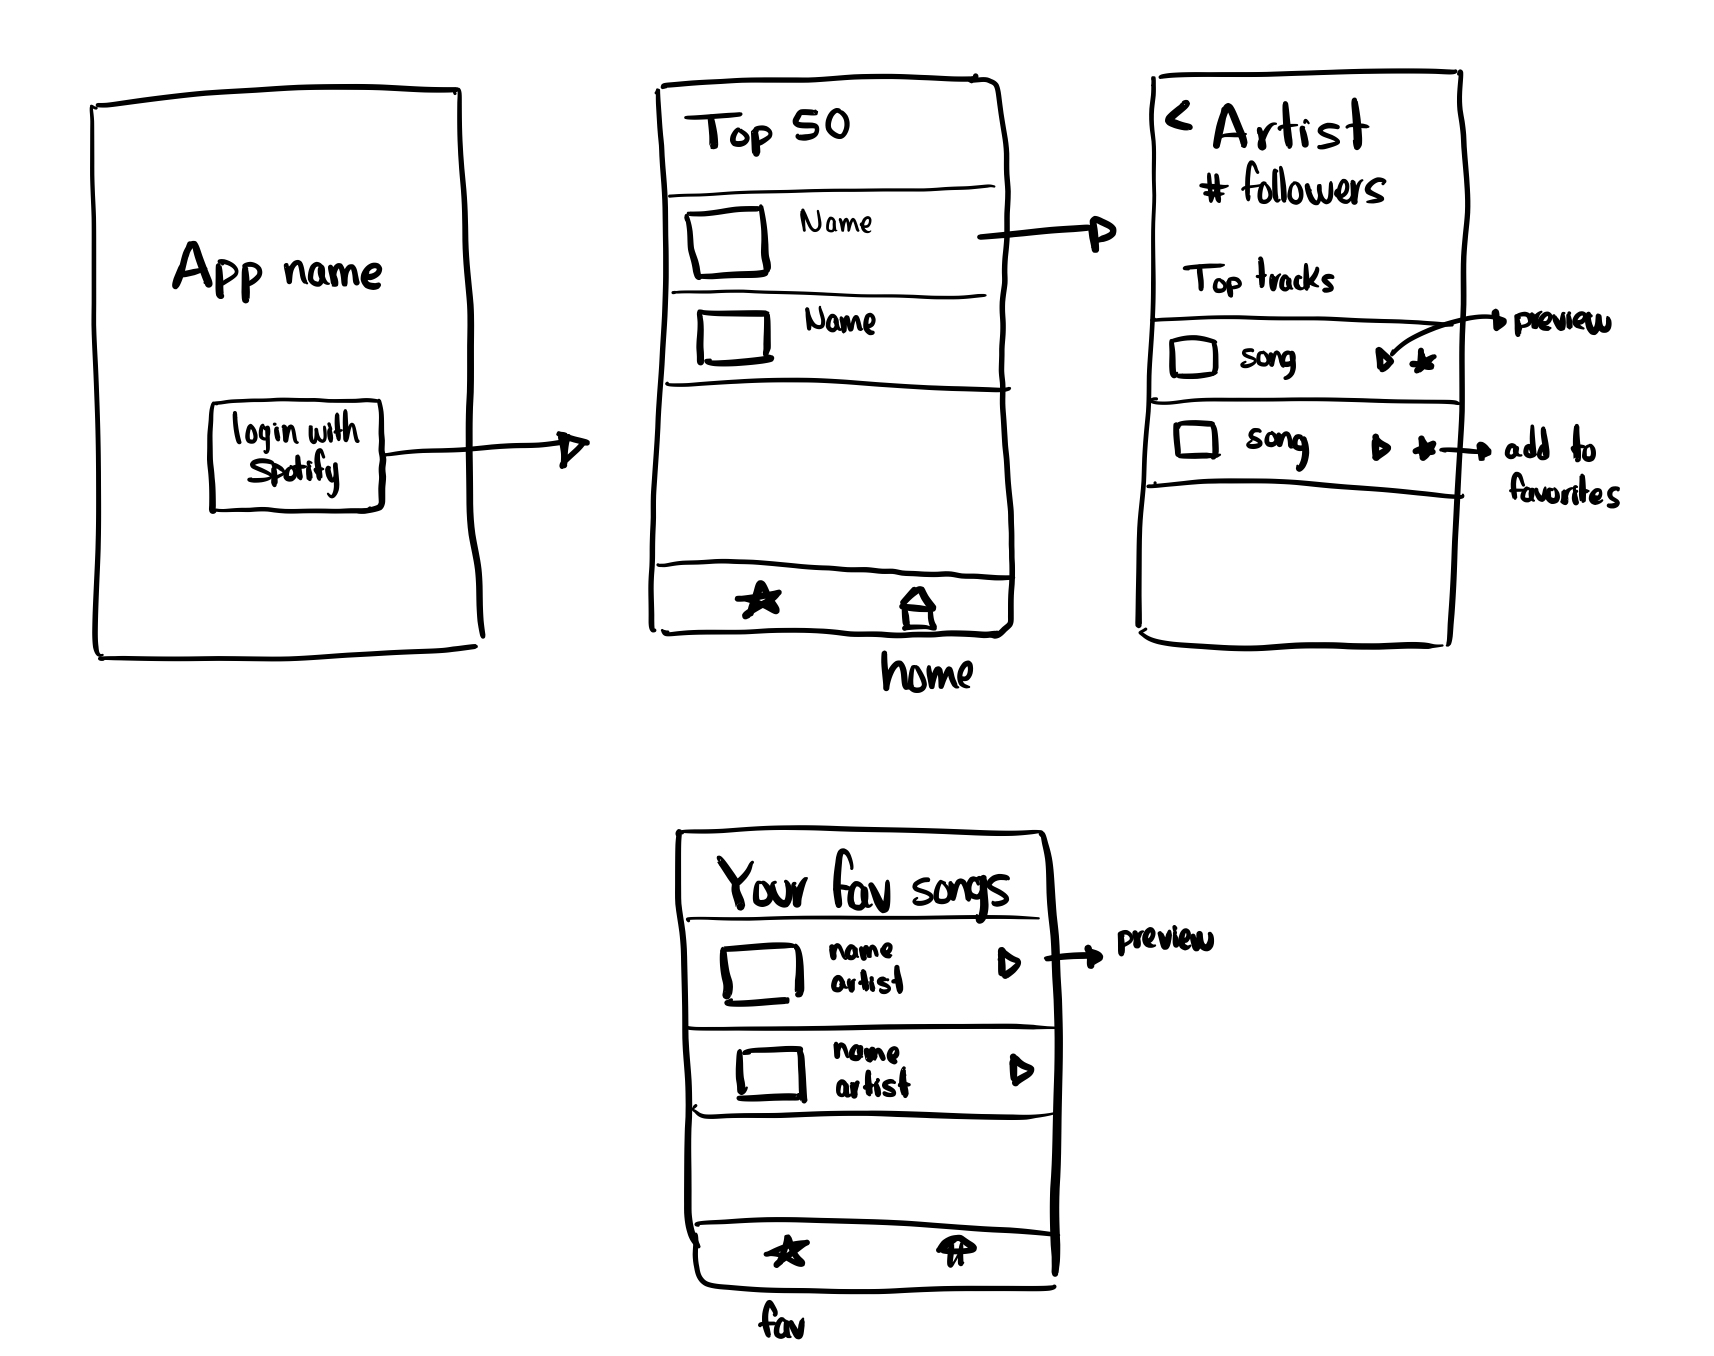
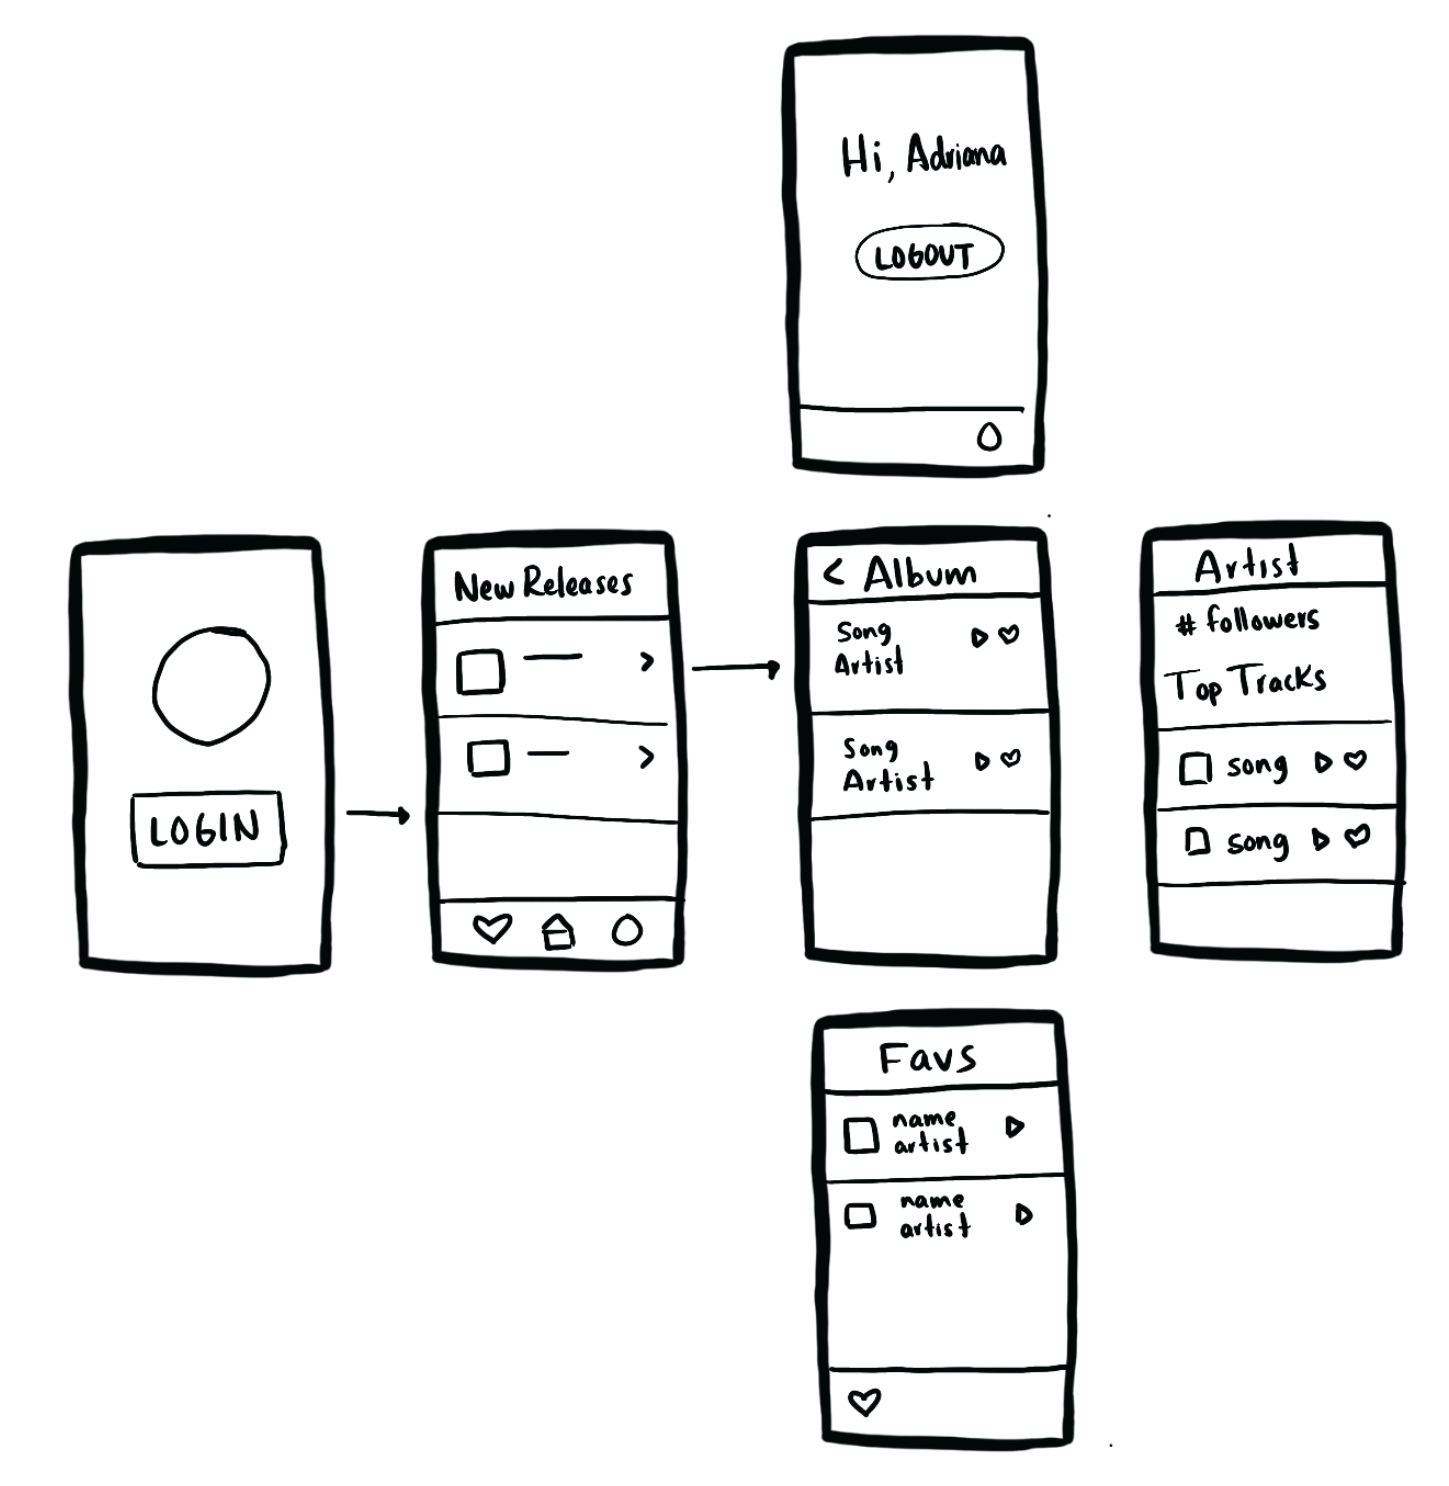
Edit Evaluation

Changed region(s): [[0.0311, 0.0, 0.9938, 0.9912], [0.0932, 0.1858, 0.2174, 0.2168]]

diff --git a/Assignments/Project.md b/Assignments/Project.md
@@ -6,28 +6,29 @@ So far in your journey as an iOS developer, you've learned how to: build respons
 
 There are still many other topics you can explore, but with what you know today, you are able to build apps for any domain you can think of.
 
-This project will combine your current expertise with the content from MOB 2.3 so that you understand why we do certain things to deal with optimization and thread handling.
+This project will combine your current expertise with the content from MOB 2.3 are able to build an app that's responsive and optimizes resources.
 
 ## Learning Outcomes
 
 By the end of this project, you should be able to...
 
-1. Build a functional app that satisfies the requirements listed below
+1. Build a functional app that satisfies the requirements listed below.
 1. Implement common practices to aid with concurrency and persistence in an iOS app.
-1. Use GCD to work with the main and background threads.
-1. Use Apple's API AVFoundation to handle audio files.
-1. Familiarize with your own code and be capable of explaining your coding decisions.
+1. Use GCD and/or Operations to work with the main and background threads.
+1. Use Xcode's Time Profiler to check the performance of your app.
+1. Be capable of explaining your coding decisions.
 
 ## Description
 
-Your task is to create an app that let's users check out their 10 most played artists on Spotify *(up to you if you want to change this to a different top 10 in Spotify)*. The app will also let users preview songs and save the as favorite songs.
+Your task is to create an app that let's users discover new music. The app will also let users preview songs and save them as favorite songs.
 
 - There's a login page to authenticate the user with Spotify's API/SDK
-- The home page should display the 10 most played artists on Spotify by the user.
-- When you tap on an artist, you will go to another view controller to view each individual artist and show their 10 most popular songs.
+- The home page should display new releases (albums).
+- When you tap on an album, you will go to another view controller to view the tracks.
 - Users can listen to a preview of the songs.
 - Users can also save songs by marking them as favorite.
 - There's another view controller to list all of your favorite songs. You can preview the song from this VC too.
+- Optionally, add a VC for an artist's info and top tracks.
 
 Check the resources for helpful documentation!
 
@@ -35,14 +36,16 @@ Check the resources for helpful documentation!
 
 1. Adhere to the description.
 1. You must use the [Spotify API](https://developer.spotify.com/documentation/web-api/) or [Spotify SDK](https://developer.spotify.com/documentation/ios/)
-1. Allow for the tracks to be previewed (30-sec clips), use AVFoundation
+1. Allow for the tracks to be previewed (30-sec clips)
 1. Use a persistence method to save the favorite tracks, up to your criteria which one to use.
 1. Use GCD to handle concurrency.
 1. Authenticate users with the Spotify API/SDK - should also be able to log out
+1. Time profile your app and show evidence of it.
 
 ## Stretch challenges
 
 1. Add favorite songs directly to a user's playlist in Spotify
+1. Create  a VC for an artist's info and top tracks.
 1. Get creative with your designs!
 1. Implement Apple Sign In
 
@@ -55,13 +58,14 @@ Check the resources for helpful documentation!
 
 You must score at least 70 points to pass the assignment. Breakdown of points below:
 
-1. **(20 points):** Code Quality: intuitive variable names, conventional casing, clear comments, modules are flexible and local, short line lengths, proper formatting.
+1. **(15 points):** Code Quality: intuitive variable names, conventional casing, clear comments, modules are flexible and local, short line lengths, proper formatting.
 1. **(10 points)** Create a usable design that follows iOS UI Guidelines
 1. **(15 points)** Displays 10 most played artists
 1. **(15 points)** Tracks can be previewed
 1. **(15 points)** Each artist has a view that displays the top 10 tracks by the artist
 1. **(15 points)** Ability to favorite a top track, and view all favorites in a list in a separate view
 1. **(5 points)** Uses Spotify API/SDK
+1. **(5 points)** Evidence of using Time Profiler
 1. **(5 points)** Code on GitHub
 
 ## Resources

diff --git a/README.md b/README.md
@@ -42,7 +42,7 @@ By the end of this course, you will be able to ...
 |  8 |  Thu, Nov 19               | [Operations (Pt 2)] |
 |  9 |  Tue, Nov 24               | [Operations (Pt 3)] |
 |  - |  Thu, Nov 26               | **Holiday- Thanksgiving** |
-| 10 |  Tue, Dec 1                | [Pitfalls & Challenges |
+| 10 |  Tue, Dec 1                | [Pitfalls & Challenges] |
 | 11 |  Thu, Dec 3                | [Libraries + Tools + Testing] |
 | 12 |  Tue, Dec 8                | Final Exam |
 | 13 |  Thu, Dec 10               | Presentations |  
@@ -59,7 +59,20 @@ By the end of this course, you will be able to ...
 [Libraries + Tools + Testing]: Lessons/10-Course-Review-and-Workshop/Lesson10.md
 
 
-## Class Assignments
+## Assignment Schedule
+
+|            Assignment                 | Date Assigned |   Due Date   |  Submission Form  |
+|:-------------------------------------:|:-------------:|:------------:|:-----------------:|
+| [GCD RW Tutorial]                     | Oct 29        | Nov 5        | Gradescope        |
+| [Janky Table Fix]                     | Nov 5         | Nov 12       | Gradescope        |
+| [Semaphore Challenge]                 | Nov 10        | Nov 12       | Gradescope        |
+| [Final Project]                       | Nov 12        | Dec 10       | Gradescope        |
+
+[GCD RW Tutorial]: https://www.raywenderlich.com/5370-grand-central-dispatch-tutorial-for-swift-4-part-1-2
+[Janky Table Fix]: https://github.com/Make-School-Labs/iOS-JankyTable_starter
+[Semaphore Challenge] :Lessons/05-Semaphores/Lesson5.md
+[Final Project] : Assignments/Project.md
+
 
 ### Projects
 
@@ -69,9 +82,9 @@ By the end of this course, you will be able to ...
 
 To pass this course you must meet the following requirements:
 
-- Complete all required assignments
-- Pass all projects according to the associated project rubric
-- Pass the final summative assessment according to the rubric as specified in this class
+- Complete all assignments listed in the Schedule
+- Pass the final project according to the associated project rubric (>=70 pts)
+- Pass the final summative assessment according to the rubric as specified in this class (>=70 pts)
     - This will be further explained in the [study guide](StudyGuide.md)
 - Actively participate in class and abide by the attendance policy
 - Make up all classwork from all absences
